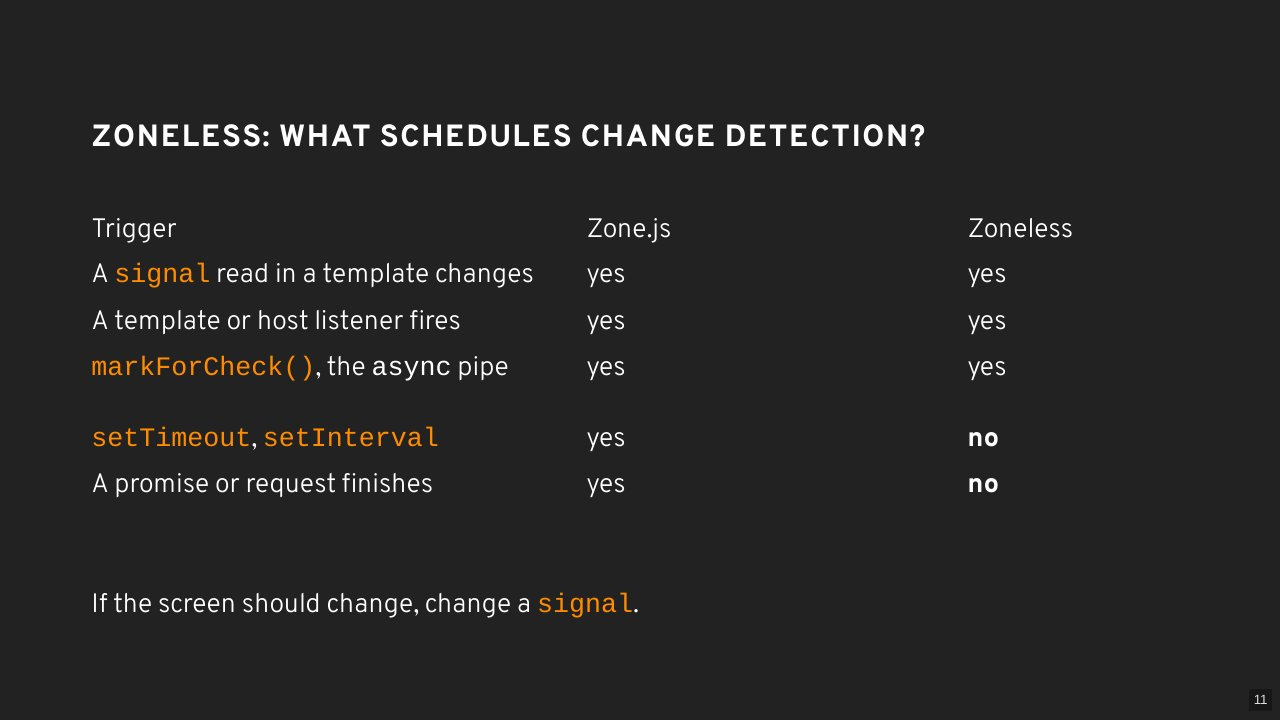
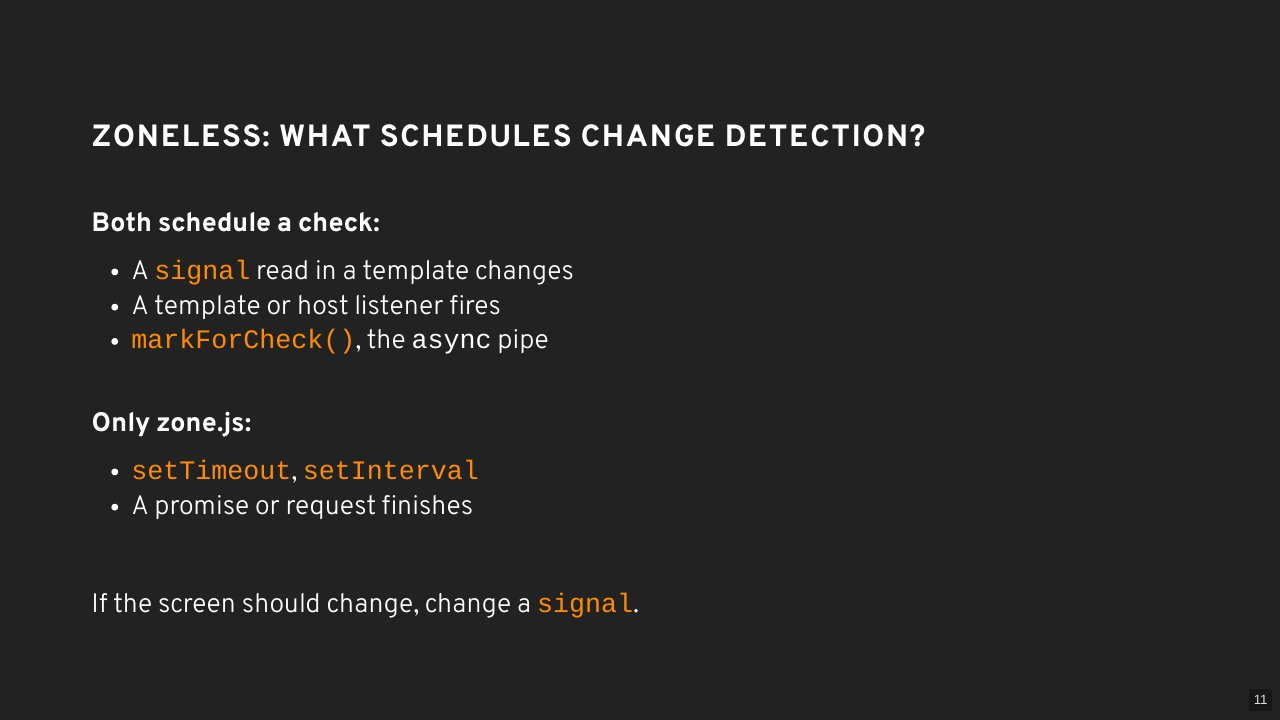
Preview the performance slides without tables

diff --git a/README.md b/README.md
@@ -202,11 +202,11 @@ Rendered from PR #24 (branch `performance`). 35 visible slides; hidden slides ar
 
 > Demo: /performance/change-detection. All OnPush, signal on B: only B flashes. setTimeout on B: nothing flashes, B keeps field 0; click "click" on B: A and B flash, field jumps to 1.
 > The demo still runs zone.js: setTimeout on B does start a cycle, OnPush just skips B. Zoneless, no cycle would start at all.
-> Click: the rows zoneless does NOT schedule. Click: the rule.
-> Dropped row, say it: assigning a plain field never scheduled anything, not even with zone.js. The next cycle just happened to show it.
+> Click: "Only zone.js", the two that zoneless does NOT schedule. Click: the rule.
+> Not on the slide, say it: assigning a plain field never scheduled anything, not even with zone.js. The next cycle just happened to show it.
 >
-> Here's the list to keep in your head. Top three: a signal read in a template, a listener in a template, markForCheck, which the async pipe calls for you. Those schedule a cycle with or without Zone.js.
-> Click. The bottom two used to work only because the zone ran a cycle after every timer and every finished request. Zoneless, they schedule nothing. And assigning a plain field never scheduled anything, the next cycle just happened to pick it up. The footer's setInterval writes a plain field, so ask the room: what happens to the footer counter in exercise 2? It freezes.
+> Here's the list to keep in your head. Both schedule a check, with or without Zone.js: a signal read in a template, a listener in a template, markForCheck, which the async pipe calls for you. Those schedule a cycle with or without Zone.js.
+> Click. Only zone.js. These two used to work only because the zone ran a cycle after every timer and every finished request. Zoneless, they schedule nothing. And assigning a plain field never scheduled anything, the next cycle just happened to pick it up. The footer's setInterval writes a plain field, so ask the room: what happens to the footer counter in exercise 2? It freezes.
 > Switch to the demo. All OnPush, Reset. Click signal on B: only B flashes. Click setTimeout on B: nothing flashes, B still shows field 0. Click "click" on B: A and B flash, and now the field jumps to 1. The value was there all along, nobody asked Angular to look.
 > Be precise about what you just saw: the demo app still has zone.js. The timer did start a cycle, and OnPush skipped B because nothing marked it. Zoneless, there wouldn't even be a cycle. Same screen, one step further from an update.
 > Click. The rule of thumb: if the screen should change, change a signal.
@@ -240,14 +240,15 @@ Rendered from PR #24 (branch `performance`). 35 visible slides; hidden slides ar
 
 <details><summary>Speaker notes</summary>
 
+> Four clicks, one line each: what stops working → what to do instead.
 > Four things that break when zone.js goes. Only the first one is in our app: the footer.
 > Inputs: under OnPush a mutated object has the same reference, so nothing marks the child. fakeAsync needs zone.js/testing. NgZone.onStable and onMicrotaskEmpty never emit zoneless.
 >
 > Before you take zone.js out in exercise 2, here's what to look for in your own code.
-> First row, the one you'll hit today: a plain field written in setTimeout, setInterval, a promise or a subscribe. With zone.js, the cycle after the task picked it up. Zoneless, nothing schedules a cycle, so the screen stays where it was. Make it a signal. That's exactly the footer counter in a minute.
-> Second: an input object you mutate in place, like pushing to an array a child gets as an input. Same reference, so OnPush sees no change and the child stays stale. Pass a new array or a new object, or make it a signal.
-> Third, tests. fakeAsync and tick are built on zone.js. Keep zone.js/testing in the test polyfills for those specs, or move them to real timers or your test runner's fake timers.
-> Fourth: code that waits for the zone to settle, NgZone.onStable or onMicrotaskEmpty, often in third-party wrappers or old directives. Zoneless, those never emit. If what you want is "after Angular has rendered", that's afterNextRender.
+> Click. First, the one you'll hit today: a plain field written in setTimeout, setInterval, a promise or a subscribe. With zone.js, the cycle after the task picked it up. Zoneless, nothing schedules a cycle, so the screen stays where it was. Make it a signal. That's exactly the footer counter in a minute.
+> Click. Second: an input object you mutate in place, like pushing to an array a child gets as an input. Same reference, so OnPush sees no change and the child stays stale. Pass a new array or a new object, or make it a signal.
+> Click. Third, tests. fakeAsync and tick are built on zone.js. Keep zone.js/testing in the test polyfills for those specs, or move them to real timers or your test runner's fake timers.
+> Click. Fourth: code that waits for the zone to settle, NgZone.onStable or onMicrotaskEmpty, often in third-party wrappers or old directives. Zoneless, those never emit. If what you want is "after Angular has rendered", that's afterNextRender.
 > Ask the room: grep your app for fakeAsync and onStable. How many hits?
 
 </details>
@@ -263,11 +264,12 @@ Rendered from PR #24 (branch `performance`). 35 visible slides; hidden slides ar
 > labs/performance/exercise-2. Before: polyfills 35.09 kB, one footer bar per second, each refreshes all 6 components. One list click: 43 bars.
 > Change: zone.js out of polyfills, provideZonelessChangeDetection in main.ts.
 > Expect: the counter freezes. Next slide fixes it.
+> Full build before, cut from the slide (raw / transfer): main 1.53 MB / 357.55 kB, styles 242.57 kB / 25.55 kB, polyfills 35.09 kB / 11.52 kB, Initial total 1.81 MB / 394.62 kB.
 >
 > Exercise 2 starts with a measurement, as always. If your exercise 1 isn't working, go to labs/performance/exercise-2 and run npm install.
 > Run npm run build and look at the polyfills line: 35 kilobytes, 11.5 over the wire. That's zone.js. Then npm start and record ten quiet seconds in the profiler: one bar per second, the footer's timer, and clicking a bar shows it refreshed all six components. Then record one click on a playground in the list. We got 43 bars for that one click: Leaflet's pan, started from inside the zone.
 > Now the change. In angular.json delete the zone.js line from polyfills. In main.ts swap provideZoneChangeDetection for provideZonelessChangeDetection, in the import too. Since v21 zoneless is the default, so deleting the line would do the same; the solution keeps provideZonelessChangeDetection so the next reader sees the choice. Leave runOutsideAngular from exercise 1 where it is.
-> Restart and look at the footer. Ask the room: why did the counter stop? A timer writes a plain field, and nothing tells Angular. That's the setInterval row in the zoneless table. Next slide fixes it.
+> Restart and look at the footer. Ask the room: why did the counter stop? A timer writes a plain field, and nothing tells Angular. setInterval is on the "Only zone.js" list. Next slide fixes it.
 
 </details>
 
@@ -300,6 +302,7 @@ Rendered from PR #24 (branch `performance`). 35 visible slides; hidden slides ar
 > Click: idle / mouse = 1 bar per second, Footer only (was all 6).
 > Click: a list click is 3 bars, was 43. The first bar refreshes the whole tree because '' -> ':id' builds a new Home (two route entries, same component). A second click, ':id' -> ':id', reuses Home: that bar refreshes 2 of the 133 rows.
 > Click: polyfills 35.09 kB -> 494 bytes. main is about the same: the saving is zone.js.
+> Full build, cut from the slide (raw / transfer): main 1.53 MB / 357.12 kB, styles 242.57 kB / 25.55 kB, polyfills 494 bytes / 494 bytes, Initial total 1.77 MB / 383.17 kB.
 >
 > Measure after, the same way as before. Ten quiet seconds, then five seconds of mouse moves over the map, then a click in the list.
 > Click. Quiet: still one bar per second, because the number really does change every second. But click the bar: only FooterComponent. Before, that tick refreshed all six components and 133 rows. Mouse over the map: nothing new.
@@ -320,10 +323,11 @@ Rendered from PR #24 (branch `performance`). 35 visible slides; hidden slides ar
 > Initial = downloaded before anything shows. Lazy = fetched later (no lazy table yet).
 > Raw is the file, transfer is the estimate after compression. Look at both.
 > This is the exercise 3 starting point: zoneless, nothing lazy. Initial total 1.77 MB / 383.17 kB, main 1.53 MB.
+> Full output, cut from the slide (raw / transfer): main 1.53 MB / 357.12 kB, styles 242.57 kB / 25.55 kB, polyfills 494 bytes / 494 bytes, Initial total 1.77 MB / 383.17 kB.
 > Optional: ng build --stats-json writes stats.json for a bundle analyzer.
 >
-> Before we change anything, we learn to read what the build tells us. npm run build, and look at this table.
-> It's the initial chunk files: everything the browser has to download and run before the app starts. The Initial total line is the number we want to push down.
+> Before we change anything, we learn to read what the build tells us. npm run build, and look at the table it prints. On the slide are the two lines we care about.
+> The first table is the initial chunk files: everything the browser has to download and run before the app starts. The Initial total line is the number we want to push down.
 > Raw size is the file on disk. Estimated transfer size is what goes over the wire after compression. Users on a slow connection feel the second one; parsing and running cost the first one.
 > Once something is lazy, a second table shows up: lazy chunk files. You'll see it appear in the exercise.
 > Ask the room: main is 1.53 MB. What do you think is in there? Write your guess down, we'll check it after the exercise.
@@ -423,6 +427,7 @@ Rendered from PR #24 (branch `performance`). 35 visible slides; hidden slides ar
 <details><summary>Speaker notes</summary>
 
 > Lab exercise-3. npm run build before any change. Expect Initial total 1.77 MB / 383.17 kB, main 1.53 MB.
+> Full output, cut from the slide (raw / transfer): main 1.53 MB / 357.12 kB, styles 242.57 kB / 25.55 kB, polyfills 494 bytes / 494 bytes, Initial total 1.77 MB / 383.17 kB.
 > Everyone writes their guess down: which of the four changes wins?
 >
 > New exercise, and this one is about the first download. Go to labs/performance/exercise-3, npm install, and before you touch any code, npm run build.
@@ -525,9 +530,10 @@ Rendered from PR #24 (branch `performance`). 35 visible slides; hidden slides ar
 
 <details><summary>Speaker notes</summary>
 
-> Show after the exercise, compare with the sticky-note guesses. Click once to reveal the icon row and the punchline.
-> Each row is one change alone on a copy of the exercise 3 start (npm run build, 2026-10-30). Solution row = build of solution 3, bonus included.
-> Bottom line = their cumulative numbers, slide order, raw / transfer: route 1.77 MB / 383.35 kB, + map 1.62 MB / 346.89 kB, + footer 1.64 MB / 347.57 kB, + icons 618.31 kB / 125.49 kB (no bonus; the solution row has the Om appen bonus).
+> Show after the exercise, compare with the sticky-note guesses. Click once to reveal the two icon lines and the punchline.
+> Each line is one change alone on a copy of the exercise 3 start (npm run build, 2026-10-30). Solution line = build of solution 3, bonus included.
+> Transfer sizes, cut from the slide: before 383.17 kB, lazy detail route 383.35 kB, @defer footer 386.49 kB, @defer map 346.49 kB, only faSpinner 161.12 kB, the solution 126.18 kB.
+> Bottom line = their cumulative numbers, slide order, raw / transfer: route 1.77 MB / 383.35 kB, + map 1.62 MB / 346.89 kB, + footer 1.64 MB / 347.57 kB, + icons 618.31 kB / 125.49 kB (no bonus; the solution line has the Om appen bonus).
 >
 > Let's compare. Your own numbers are the bottom line: each build on top of the last. Ask the room: did the footer make it go up? It did, 1.62 to 1.64. To see what each change is worth by itself, I made each one alone on a copy of the starting point.
 > The lazy route: a one-kilobyte chunk, and Initial total doesn't move. The footer: same story, it even grows a little: splitting has a small cost of its own. Those two are about the pattern, not the bytes.
